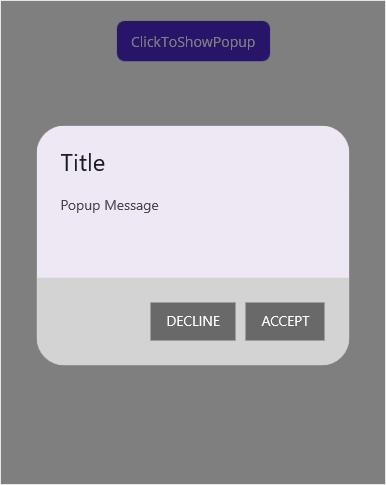
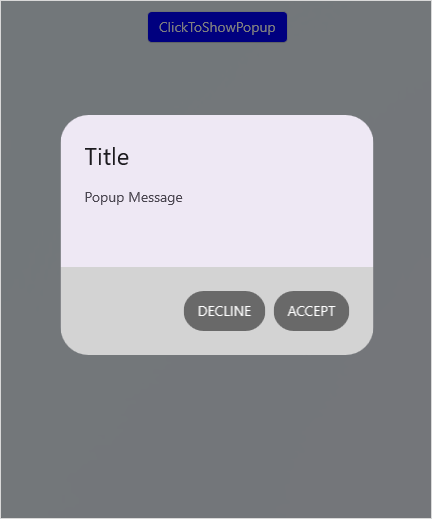
Adding FooterButtonCornerRadius Property and image

Changed region(s): [[0.0933, 0.2165, 0.9326, 0.7732], [0.2798, 0.0, 0.715, 0.1237], [0.9948, 0.0, 1.0, 1.0]]

diff --git a/MAUI/Popup/styles.md b/MAUI/Popup/styles.md
@@ -111,6 +111,10 @@ The SfPopup allows customizing the footer appearance using the following propert
 <td> {{'[DeclineButtonTextColor](https://help.syncfusion.com/cr/maui/Syncfusion.Maui.Popup.PopupStyle.html#Syncfusion_Maui_Popup_PopupStyle_DeclineButtonTextColor)'| markdownify }} </td>
 <td> Gets or sets the foreground color for the Decline button in the footer.</td>
 </tr>
+<tr>
+<td> {{'[FooterButtonCornerRadius](https://help.syncfusion.com/cr/maui/Syncfusion.Maui.Popup.PopupStyle.html#Syncfusion_Maui_Popup_PopupStyle_ FooterButtonCornerRadius)'| markdownify }} </td>
+<td> Gets or sets the CornerRadius  for the both Footer buttons in the footer.</td>
+</tr>
 </table>
 
 Refer to the following code example for customizing the footer elements.
@@ -123,7 +127,8 @@ Refer to the following code example for customizing the footer elements.
                             AcceptButtonBackground ="DimGray"
                             AcceptButtonTextColor="White"
                             DeclineButtonBackground="DimGray"
-                            DeclineButtonTextColor="White" />
+                            DeclineButtonTextColor="White"
+                            FooterButtonCornerRadius =”20”/>
     </sfPopup:SfPopup.PopupStyle>
 </sfPopup:SfPopup>
 {% endhighlight %}
@@ -146,6 +151,7 @@ public partial class MainPage : ContentPage
         popup.PopupStyle.AcceptButtonTextColor = Color.White;
         popup.PopupStyle.DeclineButtonBackground = Color.FromRgb(105, 105, 105);
         popup.PopupStyle.DeclineButtonTextColor = Color.White;
+        popup.PopupStyle.FooterButtonCornerRadius = 20;
     }
 }
 {% endhighlight %}
